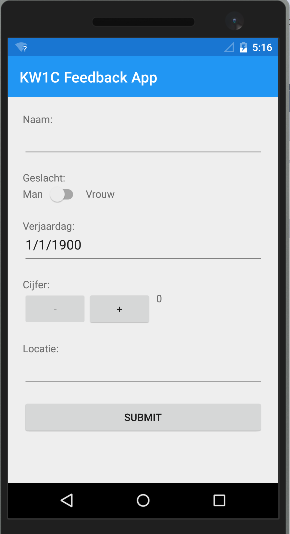
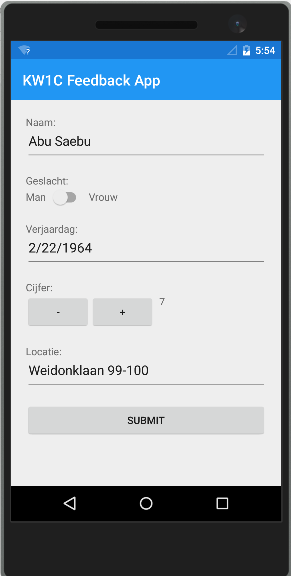
schermen

diff --git a/xamarin/productie/Opdracht5.md b/xamarin/productie/Opdracht5.md
@@ -8,11 +8,20 @@ Met binding kun je ervoor zorgen dat scherm(/-onderdelen) gekoppeld zijn aan je 
  
 ## 5.2 Voorbeeld aan de hand van de feedback App
 
-We gaan uit van een app met het volgende scherm als startscherm:
 
+Hieronder een feedback App die bestaat uit 2 schermen:
+1. Een invoerscherm met een aantal usercontrols(views).
+2. Een resultaatscherm met een overzicht van de ingevulde waardes.
+
+Deze App laat zien hoe gegevens in het ene scherm via binding (via een viewmodel object) doorgegeven worden aan een andere scherm door het viewmodel object door te geven.
+
+    > Invoerscherm: 
 ![Startscherm](https://github.com/ictacademiekw1c/opdrachten-repository/blob/master/xamarin/images/binding1.png?raw=true)
 
-Dit scherm is alsvolgt opgebouwd:
+    > Resultaatscherm
+![Resultaatscherm](https://github.com/ictacademiekw1c/opdrachten-repository/blob/master/xamarin/images/binding2.png?raw=true)
+
+Het invoerscherm is alsvolgt opgebouwd:
 ~~~xml
 <?xml version="1.0" encoding="UTF-8"?>
 <ContentPage Title="KW1C Feedback App" Padding="20" xmlns="http://xamarin.com/schemas/2014/forms" xmlns:x="http://schemas.microsoft.com/winfx/2009/xaml" x:Class="Databinding.Pages.SurveyPage">
@@ -23,24 +32,24 @@ Dit scherm is alsvolgt opgebouwd:
 					<StackLayout Spacing="20">
 						<StackLayout Spacing="0">
 							<Label Text="Naam:" />
-							<Entry Text="{Binding Naam}" />
+							<Entry Text="{Binding Feedback.Naam}" />
 						</StackLayout>
 						<StackLayout Spacing="0">
 							<Label Text="Geslacht:" />
 							<StackLayout Orientation="Horizontal">
 								<Label Text="Man" VerticalOptions="Center" />
-								<Switch IsToggled="{Binding Geslacht}" />
+								<Switch IsToggled="{Binding Feedback.Geslacht}" />
 								<Label Text="Vrouw" VerticalOptions="Center" />
 							</StackLayout>
 						</StackLayout>
 						<StackLayout Spacing="0">
 							<Label Text="Verjaardag:" />
-							<DatePicker Date="{Binding Verjaardag}" />
+							<DatePicker Date="{Binding Feedback.Verjaardag}" />
 						</StackLayout>
 						<StackLayout Spacing="0">
 							<Label Text="Cijfer:" />
 							<StackLayout Orientation="Horizontal">
-								<Stepper x:Name="cijferStepper" Value="{Binding Cijfer}" Minimum="0" Maximum="10" />
+								<Stepper x:Name="cijferStepper" Value="{Binding Feedback.Cijfer}" Minimum="0" Maximum="10" />
 								<Label Text="{Binding Value}" BindingContext="{x:Reference cijferStepper}" />
 							</StackLayout>
 						</StackLayout>
@@ -51,7 +60,7 @@ Dit scherm is alsvolgt opgebouwd:
 						<Button Text="Submit" Clicked="SubmitData" />
 					</StackLayout>
 				</StackLayout>
-            </StackLayout>
+			</StackLayout>
 		</ScrollView>
 	</ContentPage.Content>
 </ContentPage>
@@ -75,5 +84,34 @@ en
 		<Stepper x:Name="cijferStepper" Value="{Binding Cijfer}" Minimum="0" Maximum="10" />
 		<Label Text="{Binding Value}" BindingContext="{x:Reference cijferStepper}" />
 ~~~
+
+Het resultaatscherm is alsvolgt:
+~~~xml
+<?xml version="1.0" encoding="UTF-8"?>
+<ContentPage Title="Uitslag" xmlns="http://xamarin.com/schemas/2014/forms" xmlns:x="http://schemas.microsoft.com/winfx/2009/xaml" x:Class="Databinding.Pages.ResultPage">
+	<ContentPage.Content>
+		<StackLayout Padding="20">
+			<Label Text="Uitslag" FontSize="Large" FontAttributes="Bold" />
+			<BoxView HeightRequest="1" BackgroundColor="Gray" HorizontalOptions="FillAndExpand" />
+
+			<Label Text="Naam:" FontAttributes="Bold" />
+			<Label Text="{Binding Naam}" />
+
+			<Label Text="Geslacht:" FontAttributes="Bold" />
+			<Label Text="{Binding Geslacht}" />
+
+			<Label Text="Verjaardag:" FontAttributes="Bold" />
+			<Label Text="{Binding Verjaardag}" />
+
+			<Label Text="Cijfer:" FontAttributes="Bold" />
+			<Label Text="{Binding Cijfer}" />
+
+			<Label Text="Locatie:" FontAttributes="Bold" />
+			<Label Text="{Binding Locatie}" />
+		</StackLayout>
+	</ContentPage.Content>
+</ContentPage>
+~~~
+
 
 
